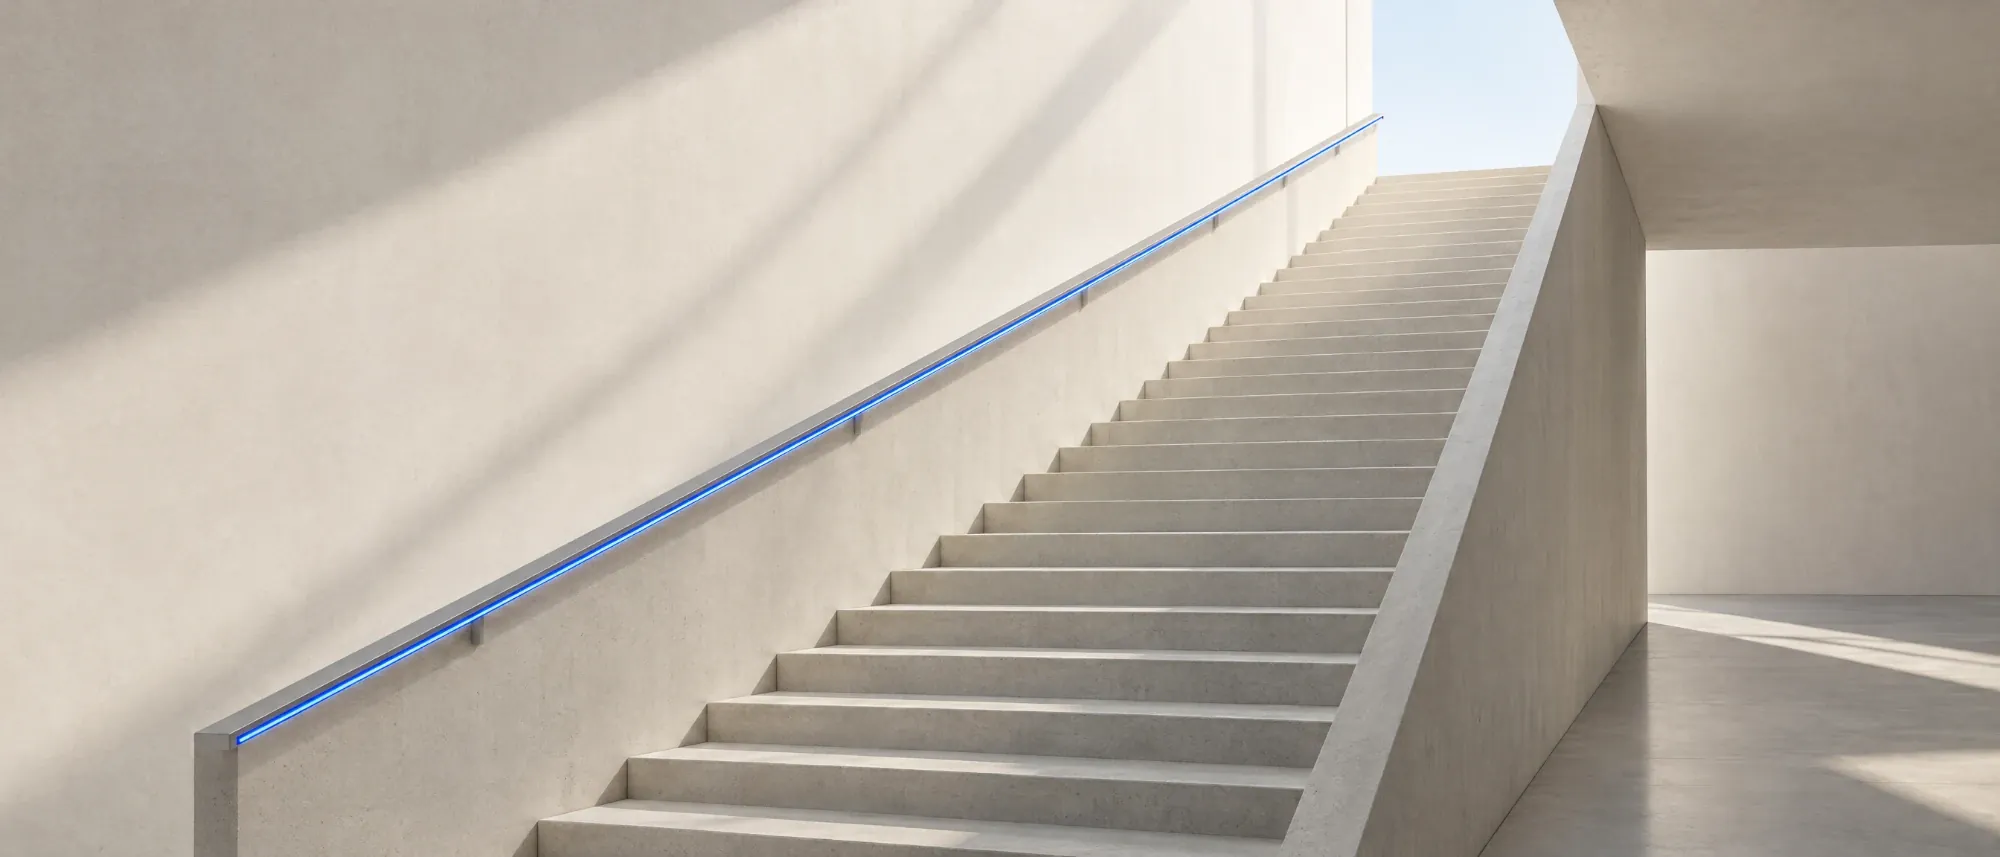
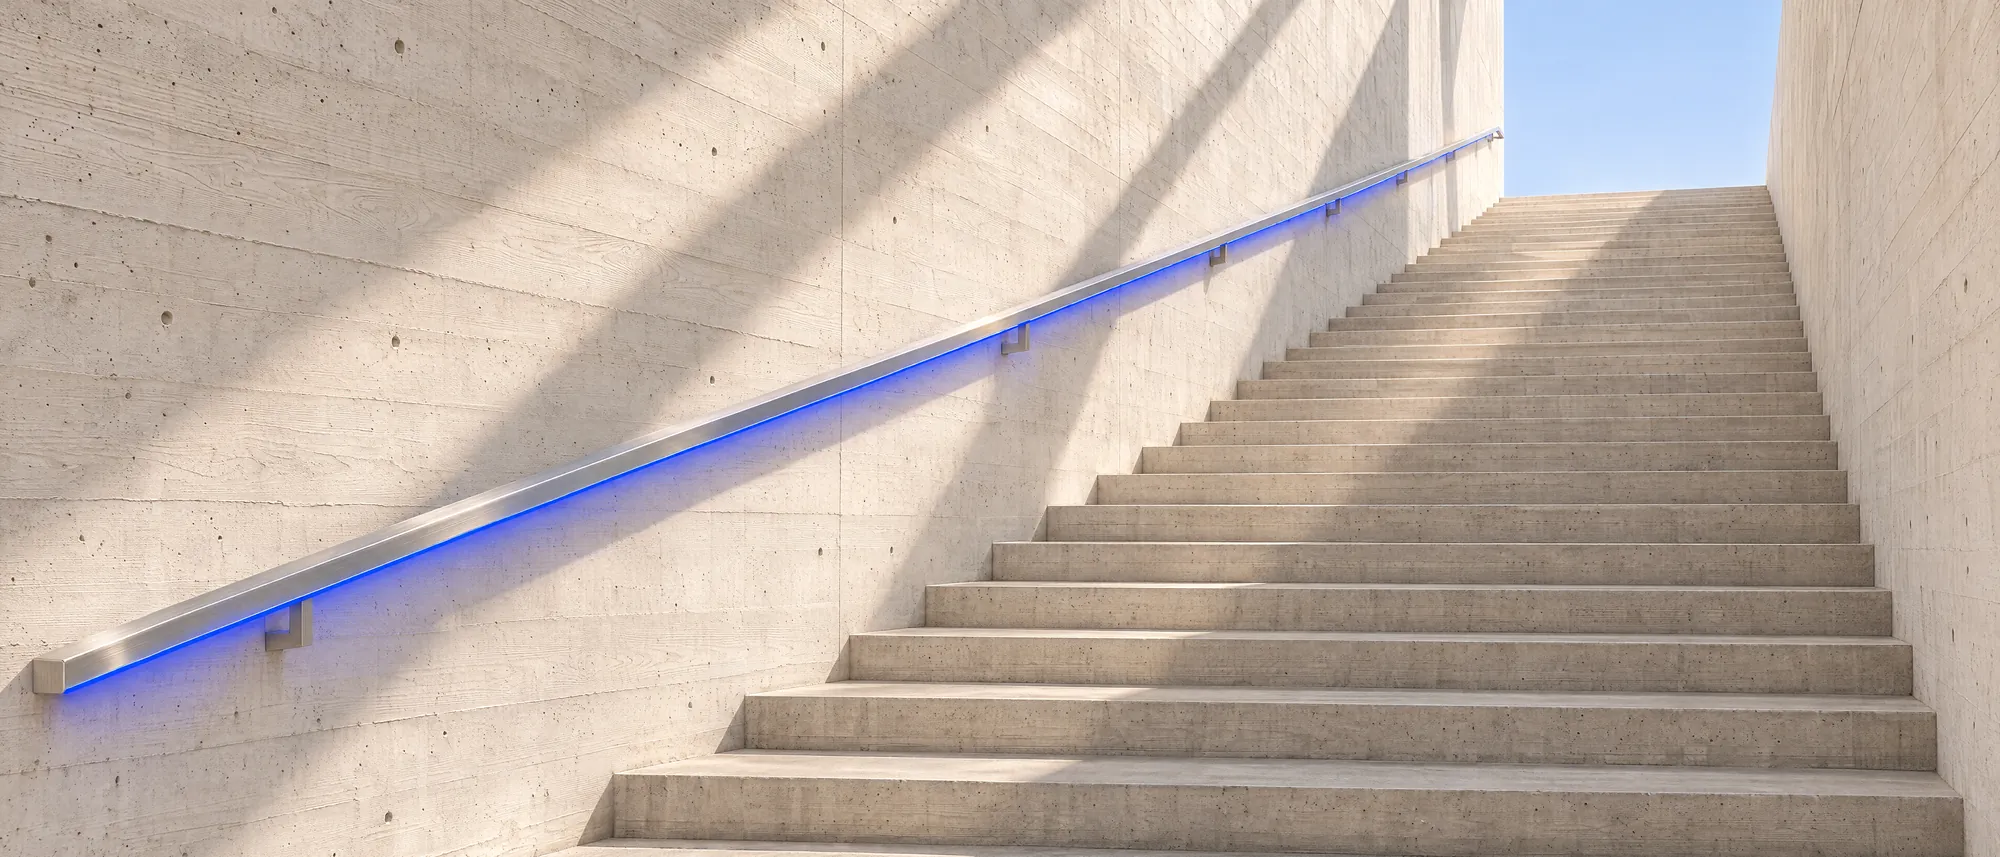
Regenerate the four section plates at maximum quality
The WORK, SYSTEM, AI and CAREER plates are regenerated with GPT Image 2.6 at
quality max and 4K (3840x1648, 21:9), keeping the same four subjects and the
single cobalt line so the set still reads as one series. Re-encoded to WebP at
the same 2000 and 1000 widths, so the markup and srcset are unchanged.

The board-formed concrete in the CAREER plate carries far more texture than
before, so it is encoded a little lower (q80) to keep it near 220KB; the other
three are q86. The four desktop files total about 550KB, all lazy-loaded, so
first load is unchanged.

Claude-Session: https://claude.ai/code/session_01Qq9Kv4rYcUs7P2bBpU56Nf

diff --git a/CLAUDE.md b/CLAUDE.md
@@ -80,7 +80,7 @@ All four use the ink tokens and `--accent`, so they follow the theme.
   SYSTEM, AI and CAREER, always in the same slot (heading → plate → content).
   Files are `assets/plate-<section>-2000.webp` and `-1000.webp`, served through
   `srcset`, lazy-loaded, `alt=""` because they are mood rather than content.
-  They are one series from Higgsfield (gpt_image_2_5, high, 2k): monochrome
+  They are one series from Higgsfield (gpt_image_2_6, quality max, 4k, 21:9; re-encoded to WebP): monochrome
   architecture with a single cobalt-blue line, no text, logos or people — keep
   any replacement in that direction or the set stops reading as one. Phones
   crop them to 2:1. Higgsfield serves results from
